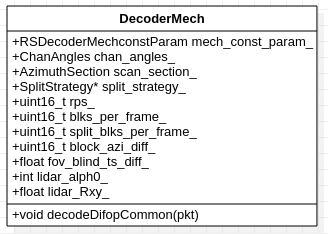
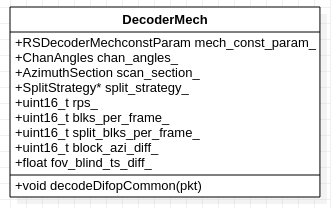
fix: fix src_intro docs

diff --git a/doc/src_intro/rs_driver_intro.md b/doc/src_intro/rs_driver_intro.md
@@ -627,8 +627,8 @@ cos()查表返回角度的cos值。
 
 以RSBP为例，
 
-+ 一轮发射的时长为`55.52`纳秒，这是Block之间的时间差。
-+ 一轮发射内，`32`次发射的时间戳如下（相对于Block的相对时间，单位纳秒）。这是每个Channel对所属Block的相对时间。
++ 一轮发射的时长为`55.52`微秒，这是Block之间的时间差。
++ 一轮发射内，`32`次发射的时间戳如下（相对于Block的相对时间，单位微秒）。这是每个Channel对所属Block的相对时间。
 
 ```
   0.00,  2.56,  5.12,  7.68, 10.24, 12.80, 15.36, 17.92, 
@@ -701,17 +701,19 @@ SingleReturnBlockIterator实现单回波模式下的BlockIterator接口。
 
 ##### 4.4.6.1 SingleReturnBlockIterator() 
 
-单回波模式下，
+单回波模式下。
 在构造函数中，遍历Packet中的block，并计算az_diffs[]和tss[]。
+
 + Block之间的时间差是固定值，也就是`BLOCK_DURATION`。
 + 1个Packet有`BLOCKS_PER_PKT`个Block。
+  
   + 对于前面的Block，
-
+  
   ```
   Block水平角差 = 下一个Block的水平角 - 当前Block的水平角
   ```
   + 最后一个Block的水平角差，认为等于`BLOCK_AZ_DURATION`，这是雷达理论上每个Block的水平角差。
-
+  
 + 相邻Block可能跨`角度0`，所以它们的水平角差可能小于`0`，这时需要将它修正到[`0`, `36000`)内。
 
 #### 4.4.7 DualReturnBlockIterator
@@ -878,7 +880,7 @@ void DecoderMech<T_PointCloud>::decodeDifopCommon(const T_Difop& pkt);
 #### 4.6.2 SplitStrategy
 
 SplitStrategy定义机械式雷达的分帧模式接口。
-+ 使用者遍历Packet中的Block，以Block的水平角为参数，调用SplitStrategy::newBlock()。应该分帧时，newBlock()返回`true`,否则返回`false`。
++ 使用者遍历Packet中的Block，以Block的水平角为参数，调用SplitStrategy::newBlock()。应该分帧时，newBlock()返回`true`，否则返回`false`。
 
 ![split strategy](./img/classes_split_strategy.png)
 
@@ -930,7 +932,7 @@ MSOP使用UDP协议，理论上Packet可能丢包、乱序。
 + 那假如只有丢包呢？举个例子，如果编号为`1`的Packet丢了，则可以加入检查条件，就是当前Packet编号小于`prev_seq_`，就分帧。
 + 在乱序的情况下，这个检查条件会导致另一个困境。举个例子，如果编号为`300`和`301`的两个Packet乱序，那么这个位置分帧，会导致原本的一帧拆分成两帧。
 
-为了一定程度上，包容可能的Packet丢包、乱序情况，引入安全区间的概念。
+为了在一定程度上包容可能的Packet丢包、乱序情况，引入安全区间的概念。
 + 以`prev_seq_`为参考点，划定一个范围值`RANGE`, 
 
 ```
@@ -1085,14 +1087,13 @@ DecoderMech处理机械式雷达的共同特性，如转速，分帧角度、光
 + 成员`split_blks_per_frame_`是按Block数分帧时，每帧的Block数。包括按理论上每圈Block数分帧，和按用户指定的Block数分帧。
 + 成员`block_azi_diff_`是理论上相邻block之间的角度差。
 + 成员`fov_blind_ts_diff_`是FOV盲区的时间差
-+ 成员`lidar_alpha0_`和`lidar_Rxy_`是雷达光学中心相对于物理中心的位置参数。MSOP格式中的点的坐标是相对于光学中心的，需要借助这两个值，将它转换到相对于物理中心。
 
 ![decoder mech](./img/class_decoder_mech.png)
 
 ##### 4.8.2.1 RSDecoderMechConstParam
 
 RSDecoderMechConstParam基于RSDecoderConstParam，增加机械式雷达特有的参数。
-+ `RX`、`RY`、`RZ`是雷达光学中心相对于物理中心的坐标。`lidar_alpha0_`和`lidar_Rxy_`由它们计算而来。
++ `RX`、`RY`、`RZ`是雷达光学中心相对于物理中心的坐标。
 + `BLOCK_DURATION`是Block的持续时间。
 + `CHAN_TSS[]`是Block中Channel对Block的相对时间。
 + `CHAN_AZIS[]`是Block中Channel占Block的时间比例，也是水平角比例。
@@ -1147,7 +1148,7 @@ Block间的角度差 = 360 / 每帧Block数
 + 解析得到FOV的起始角度`fov_start_angle`和终止角度`fov_end_angle`，计算FOV的大小`fov_range`。
 + 计算与FOV互补的盲区大小。按照盲区范围比例，计算盲区的时间戳差，也就是`fov_blind_ts_diff_`。
 
-+ 如果用户设置从DIFOP Packet读入角度修正值(`RSDecoderParam..config_from_file` = `false`)，则调用ChanAngles::loadFromDifop()得到他们。
++ 如果用户设置从DIFOP Packet读入角度修正值(`RSDecoderParam.config_from_file` = `false`)，则调用ChanAngles::loadFromDifop()得到他们。
   + 一般角度修正值不改变，所以一旦解析成功（`angles_ready_ = true`），就没必要解析第二次。
 
 #### 4.8.3 DecoderRSBP
